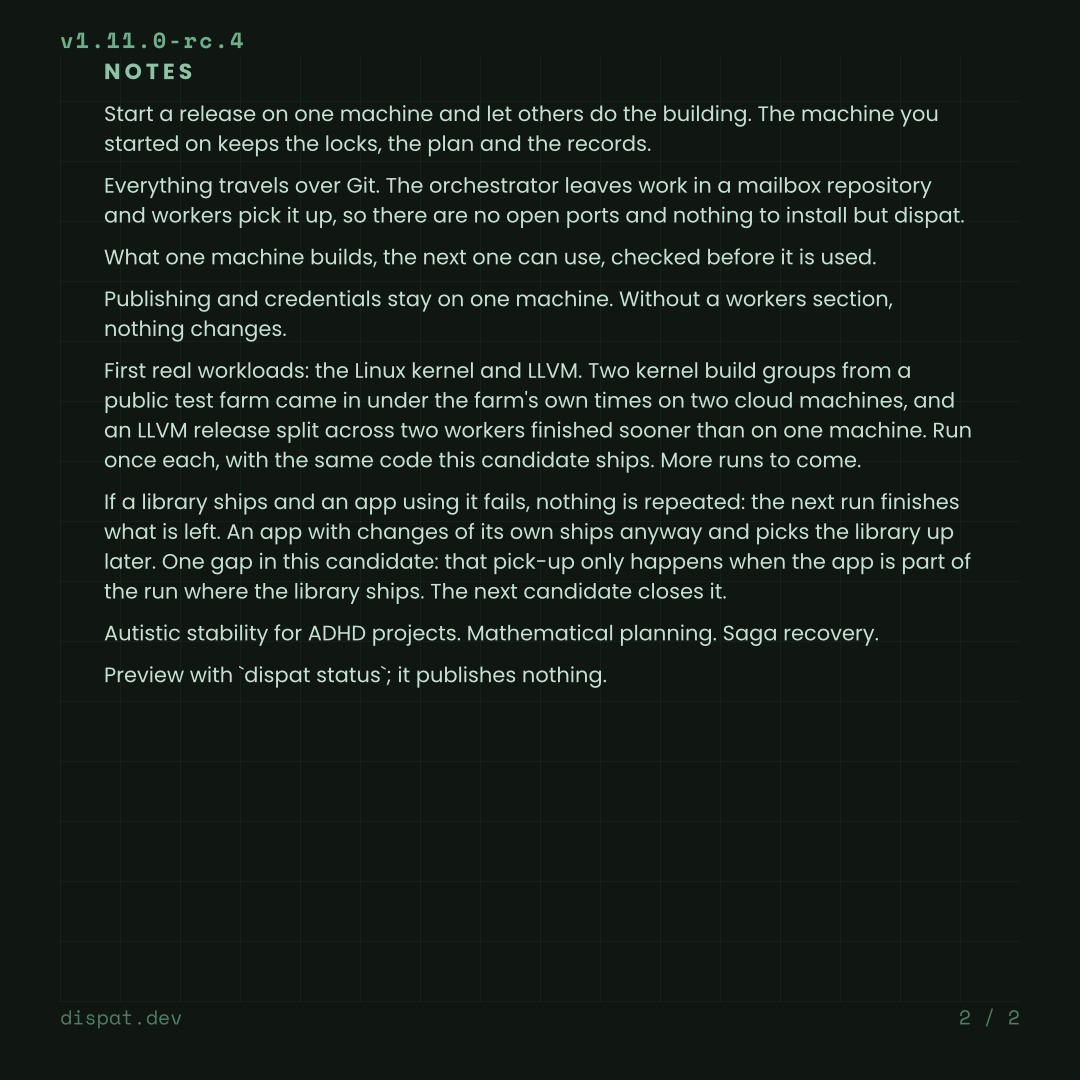
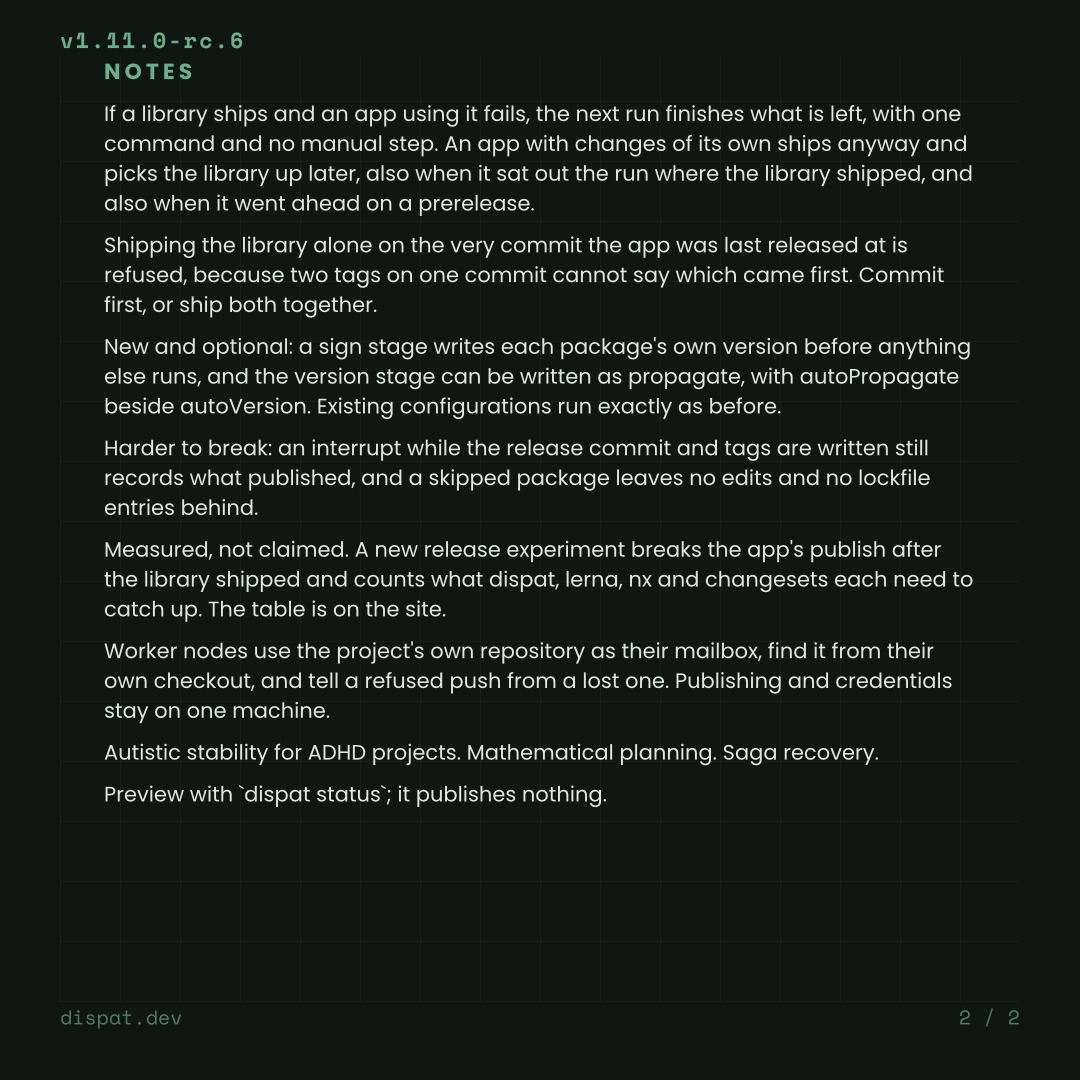
fix(docs): announce the sign stage and what this candidate hardens
The candidate's caption and card now say what it ships besides the pick-up
work: an optional sign stage that writes each package's own version, the
version stage's second name propagate beside autoPropagate, records that
still land when an interrupt reaches the release commit, skipped packages
that leave no edits or lockfile entries behind, a prerelease app that went
ahead of a failed library catching up, and worker nodes that find their
mailbox in their own checkout. The links name the sign stage's page, the
previews show this candidate, and the stable draft mentions the new stage.
Both captions stay inside Discord's and Instagram's limits.

diff --git a/packages/docs/announce/rc/template.html b/packages/docs/announce/rc/template.html
@@ -224,6 +224,7 @@
       <h2>LINKS</h2>
       <div class="cmd link"><span>This release candidate</span> https://github.com/yohimik/dispat/releases/tag/services/dispat/v{{ .new_version }}</div>
       <div class="cmd link"><span>Catch-up experiment</span> https://dispat.dev/next/internals/experiments/</div>
+      <div class="cmd link"><span>Sign stage</span> https://dispat.dev/next/configuration/autosign/</div>
       <div class="cmd link"><span>Worker nodes guide</span> https://dispat.dev/next/distributed-execution/</div>
       <div class="cmd link"><span>Report a problem</span> https://github.com/yohimik/dispat/issues</div>
       <h2>INSTALL</h2>
@@ -234,10 +235,12 @@
 
   <div class="notes">
     <h2>NOTES</h2>
-    <p>If a library ships and an app using it fails, the next run finishes what is left, with one command and no manual step. An app with changes of its own ships anyway and picks the library up later, also when it sat out the run where the library shipped.</p>
+    <p>If a library ships and an app using it fails, the next run finishes what is left, with one command and no manual step. An app with changes of its own ships anyway and picks the library up later, also when it sat out the run where the library shipped, and also when it went ahead on a prerelease.</p>
     <p>Shipping the library alone on the very commit the app was last released at is refused, because two tags on one commit cannot say which came first. Commit first, or ship both together.</p>
+    <p>New and optional: a sign stage writes each package's own version before anything else runs, and the version stage can be written as propagate, with autoPropagate beside autoVersion. Existing configurations run exactly as before.</p>
+    <p>Harder to break: an interrupt while the release commit and tags are written still records what published, and a skipped package leaves no edits and no lockfile entries behind.</p>
     <p>Measured, not claimed. A new release experiment breaks the app's publish after the library shipped and counts what dispat, lerna, nx and changesets each need to catch up. The table is on the site.</p>
-    <p>Worker nodes use the repository itself. The orchestrator leaves work on branches of the project's own repository and workers pick it up; another endpoint is one setting away. Publishing and credentials stay on one machine, and a stage that ran on a worker is caught up exactly like one that ran locally.</p>
+    <p>Worker nodes use the project's own repository as their mailbox, find it from their own checkout, and tell a refused push from a lost one. Publishing and credentials stay on one machine.</p>
     <p>Autistic stability for ADHD projects. Mathematical planning. Saga recovery.</p>
     <p>Preview with `dispat status`; it publishes nothing.</p>
   </div>

diff --git a/packages/docs/announce/stable/template.html b/packages/docs/announce/stable/template.html
@@ -249,6 +249,7 @@
     <p>Everything travels over Git. The orchestrator leaves work on branches of the project's own repository and workers pick it up, so there are no open ports and nothing to install but dispat.</p>
     <p>What one machine builds, the next one can use, checked before it is used.</p>
     <p>Publishing and credentials stay on one machine. Without a workers section, nothing changes.</p>
+    <p>New and optional: a sign stage writes each package's own version before anything else runs, and the version stage can be written as propagate. Existing configurations run exactly as before.</p>
     <p>If a library ships and an app using it fails, nothing is repeated: the next run finishes what is left. An app with changes of its own ships anyway and picks the library up later, also when it sat out the run where the library shipped.</p>
     <p>Autistic stability for ADHD projects. Mathematical planning. Saga recovery.</p>
     <p>Preview with `dispat status`; it publishes nothing.</p>
